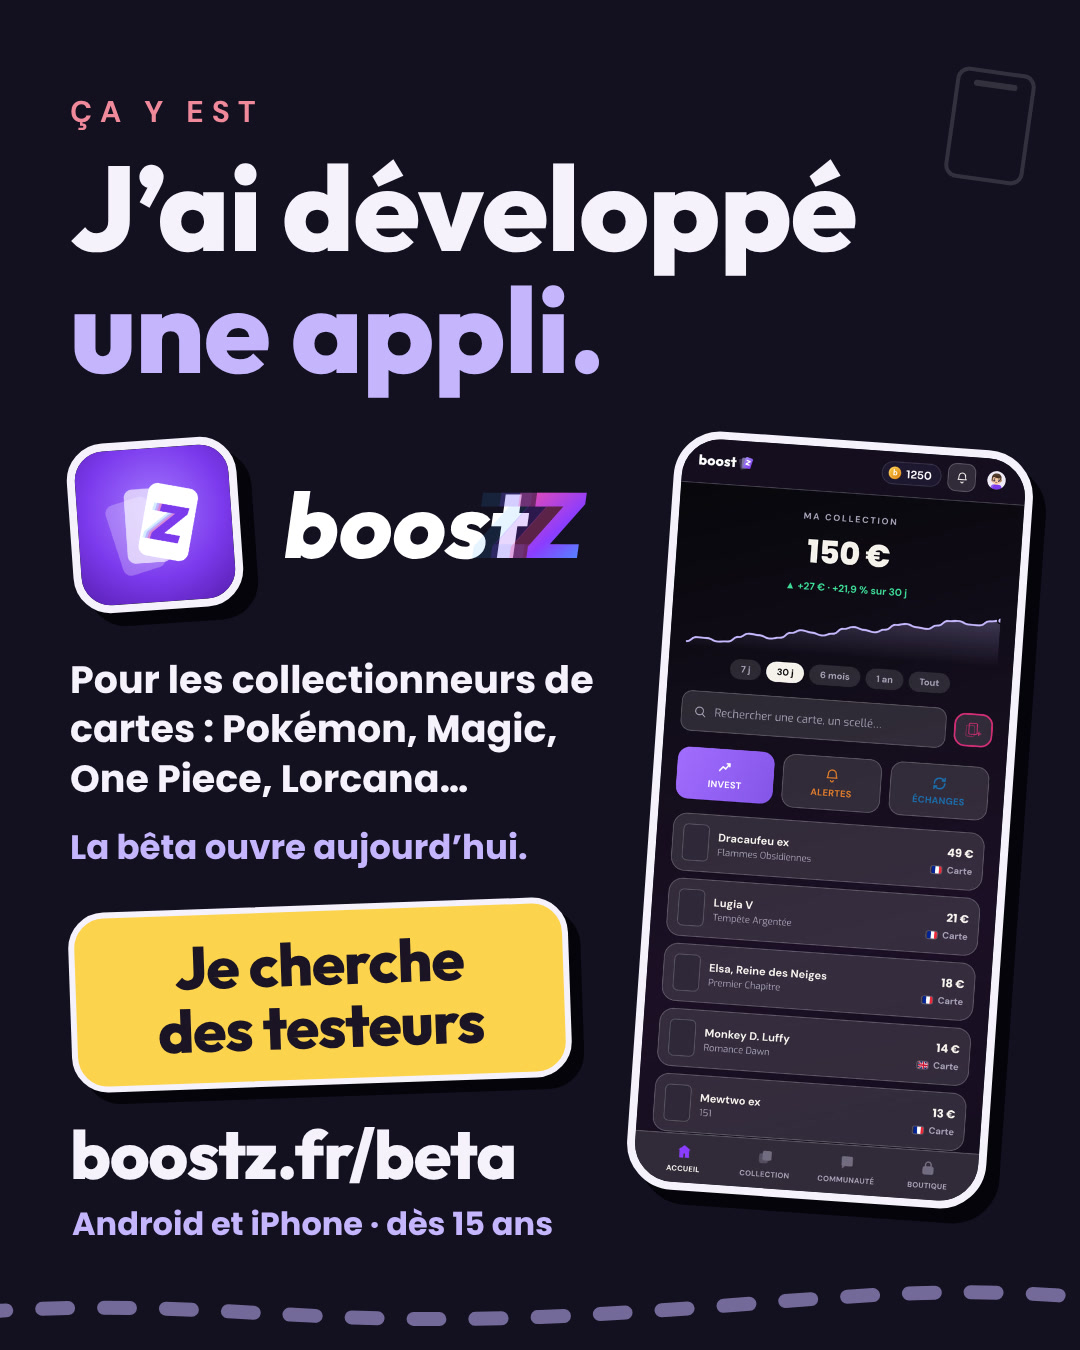
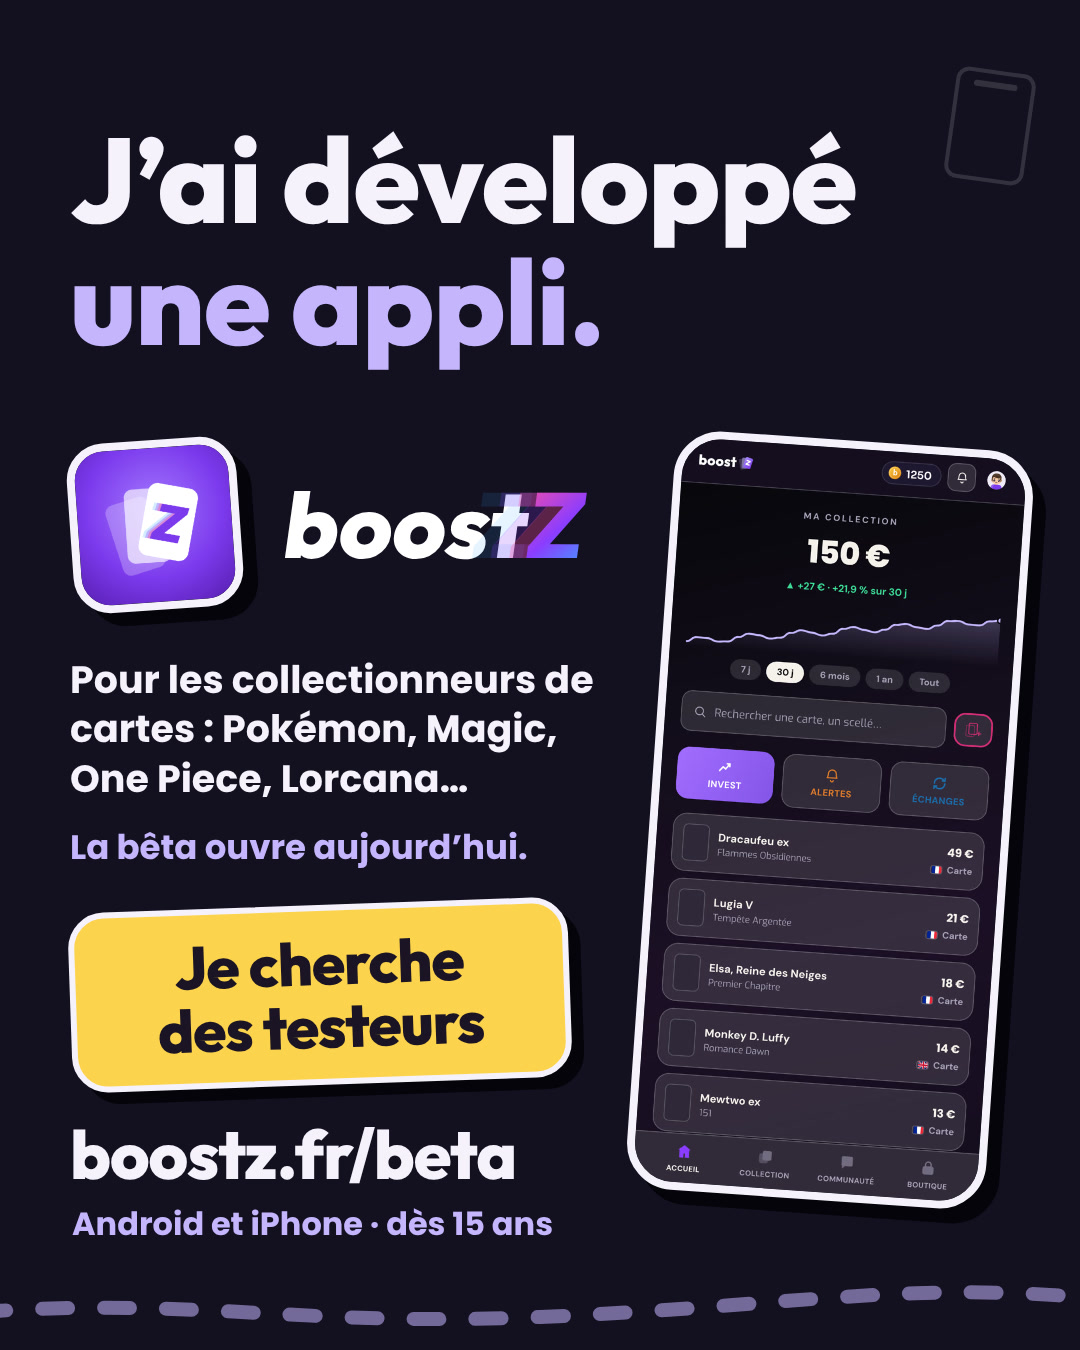
Remove « ÇA Y EST » from the personal announcement
TanPib found it read as a grand announcement, as if he were showing off:
both images now open straight on the title.

Claude-Session: https://claude.ai/code/session_01KYjmNhJZrtvo4jRtggkgV3

Changed region(s): [[0.0611, 0.0622, 0.7944, 0.3111]]

diff --git a/gabarits/perso-beta.html b/gabarits/perso-beta.html
@@ -11,6 +11,7 @@
 // @boostz.app by hand). First person, no marketing line, the real home screen
 // of the app, no store badge and no TestFlight link. « une appli » is in the
 // plain accent colour: the brand gradient on it read as « trop IA » to him.
+// No « ÇA Y EST » above the title either: it read as showing off (same day).
 // Render: node rendu.mjs perso-beta.html images
 document.head.insertAdjacentHTML('beforeend', '<style>#story { height: 1920px; }</style>');
 const phone = (x, y, w, r) => `<div class="abs" style="left:${x}px;top:${y}px;width:${w}px;height:${Math.round((w - 16) * 2.164) + 16}px;border-radius:${w * .13}px;background:#131020;border:8px solid ${INK};box-shadow:14px 14px 0 ${SHADOW};overflow:hidden;transform:rotate(${r}deg);z-index:4"><img src="shots/app-accueil.jpg" style="width:100%;display:block"></div>`;
@@ -19,8 +20,7 @@ const ask = (x, y, w, h, size, r) => st(x, y, w, h, `<div class="h" style="displ
 
 carousel([
   ['post', `${ghosts([[950, 70, 80, 8]])}${track(0, 1312, .25)}
-    <div class="abs lab" style="left:70px;top:92px;font-size:30px;letter-spacing:8px;color:${PINK}">ÇA Y EST</div>
-    <div class="abs h" style="left:70px;top:146px;font-size:120px">J’ai développé<br><span class="acc">une appli.</span></div>
+    <div class="abs h" style="left:70px;top:118px;font-size:120px">J’ai développé<br><span class="acc">une appli.</span></div>
     ${icon(70, 440, 170, -4)}
     <div class="abs" style="left:285px;top:478px">${wordmark(92)}</div>
     <div class="abs ui" style="left:70px;top:655px;width:540px;font-size:38px;line-height:1.3">Pour les collectionneurs de cartes : Pokémon, Magic, One Piece, Lorcana…</div>
@@ -30,7 +30,6 @@ carousel([
     <div class="abs ui" style="left:72px;top:1200px;font-size:32px;color:${VSOFT}">Android et iPhone · dès 15 ans</div>
     ${phone(650, 440, 360, 4)}`],
   ['story', `${ghosts([[40, 205, 80, -8], [960, 215, 70, 6], [70, 1690, 90, 10], [910, 1700, 100, -6]])}
-    <div class="abs lab" style="left:0;top:300px;width:1080px;text-align:center;font-size:30px;letter-spacing:8px;color:${PINK}">ÇA Y EST</div>
     <div class="abs h" style="left:0;top:356px;width:1080px;text-align:center;font-size:124px">J’ai développé<br><span class="acc">une appli.</span></div>
     <div class="abs ui" style="left:60px;top:640px;width:960px;text-align:center;font-size:38px;line-height:1.35">BoostZ, pour les collectionneurs de cartes<br>Pokémon, Magic, One Piece, Lorcana…<br><span class="acc">La bêta ouvre aujourd’hui.</span></div>
     ${phone(110, 810, 330, -4)}
